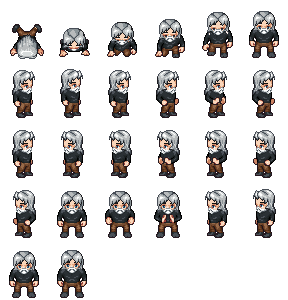
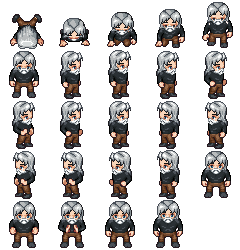
feat and fix: Ajuste de sprites do player e npc. Adição das animações e balão de fala ao NPC, além da utilização do botão e para interagir com o npc

diff --git a/src/scenes/jogo.js b/src/scenes/jogo.js
@@ -2,11 +2,11 @@ import MenuPausa from './MenuPausa.js'
 import SoundManager from './SoundManager.js'
 
 export default class Jogo extends Phaser.Scene {
-    constructor () {
+    constructor() {
         super('Jogo')
     }
 
-    preload () {
+    preload() {
         this.load.tilemapTiledJSON('mapa', 'public/assets/mapa/mapa.json')
 
         // Carregando os sprites dos personagens
@@ -14,7 +14,7 @@ export default class Jogo extends Phaser.Scene {
         this.load.spritesheet('enemy1', 'public/assets/personagens/enemy1.png', { frameWidth: 48, frameHeight: 60 })
         this.load.spritesheet('enemy2', 'public/assets/personagens/enemy2.png', { frameWidth: 48, frameHeight: 60 })
         this.load.spritesheet('enemy3', 'public/assets/personagens/enemy3.png', { frameWidth: 48, frameHeight: 60 })
-        this.load.spritesheet('npc', 'public/assets/personagens/npc.png', { frameWidth: 48, frameHeight: 60 })
+        this.load.spritesheet('npc', 'public/assets/personagens/npc.png', { frameWidth: 48, frameHeight: 50 })
 
         // Carregando os sprites do mapa
         this.load.image('casinhaDeEstoque', 'public/assets/mapa/casinhaDeEstoque.png')
@@ -52,6 +52,7 @@ export default class Jogo extends Phaser.Scene {
         this.load.spritesheet('cozinhaModificada', 'public/assets/mapa/cozinhaModificada.png', { frameWidth: 32, frameHeight: 32 })
         this.load.spritesheet('jardimFundos', 'public/assets/mapa/jardimFundos.png', { frameWidth: 32, frameHeight: 32 })
         this.load.spritesheet('pilares', 'public/assets/mapa/pilares.png', { frameWidth: 64, frameHeight: 64 })
+        this.load.image('iconeConversa', 'public/assets/botoes/iconeConversa.png')
 
         const sonsParaCarregar = [
             { key: 'passo', path: 'public/assets/sons/passo.mp3' },
@@ -69,8 +70,10 @@ export default class Jogo extends Phaser.Scene {
 
     }
 
-    create () {
+    create() {
         const mapa = this.make.tilemap({ key: 'mapa' })
+
+        // Mapeamento de teclas do teclado para as interações
         this.cursors = this.input.keyboard.createCursorKeys()
 
         this.shift = this.input.keyboard.addKey(Phaser.Input.Keyboard.KeyCodes.SHIFT) //botão shift
@@ -82,6 +85,7 @@ export default class Jogo extends Phaser.Scene {
             right: Phaser.Input.Keyboard.KeyCodes.D
         })
         this.teclaEsc = this.input.keyboard.addKey(Phaser.Input.Keyboard.KeyCodes.ESC)
+        this.teclaE = this.input.keyboard.addKey(Phaser.Input.Keyboard.KeyCodes.E)
 
         const tilesetChao = mapa.addTilesetImage('mansao', 'mansao')
         const tilesetObjetos = mapa.addTilesetImage('objetos', 'objetos')
@@ -275,9 +279,9 @@ export default class Jogo extends Phaser.Scene {
         this.layerColisao.setCollisionByExclusion([-1])
 
         // Configuração do player
-        this.player = this.physics.add.sprite(784.5, 3233.6, 'player')
+        this.player = this.physics.add.sprite(784.5, 3246.1, 'player')
         window.player = this.player //Comando para ver a localização do player no jogo, usando o comando console.log(player.x, player.y)
-        this.direcao = 'baixo'
+        this.direcao = 'esquerda'
         this.physics.add.collider(this.player, this.layerColisao)
         this.physics.add.collider(this.player, this.colunasColisao)
         this.player.setDepth(2)
@@ -367,7 +371,76 @@ export default class Jogo extends Phaser.Scene {
         })
 
         // Configuração NPC
-        this.npc = this.physics.add.sprite(762.8, 3323.6, 'npc')
+
+        this.npc = this.physics.add.sprite(675, 3244.5, 'npc')
+
+        this.physics.add.collider(this.npc, this.player)
+
+        this.npc.setPushable(false)
+        this.npc.setImmovable(true)
+
+        // Levantando
+        this.anims.create({
+            key: 'npc-levantando',
+            frames: this.anims.generateFrameNumbers('npc', {
+                start: 0,
+                end: 5
+            }),
+            frameRate: 3,
+            repeat: 0
+        })
+
+        // Virando para direita (idle)
+        this.anims.create({
+            key: 'npc-virandoDireita',
+            frames: this.anims.generateFrameNumbers('npc', {
+                start: 6,
+                end: 8
+            }),
+            frameRate: 2,
+            repeat: -1
+        })
+
+        // Agradecendo
+        this.anims.create({
+            key: 'npc-agradecendo',
+            frames: this.anims.generateFrameNumbers('npc', {
+                start: 9,
+                end: 12
+            }),
+            frameRate: 2,
+            repeat: 0
+        })
+
+        this.npc.play('npc-levantando')
+        this.npc.on('animationcomplete-npc-levantando', () => {
+            this.npc.play('npc-virandoDireita')
+        })
+
+        // Balão de fala do NPC
+        this.iconeConversa = this.add.image(
+            this.npc.x,
+            this.npc.y - 40,
+            'iconeConversa'
+        )
+
+        this.iconeConversa.setScale(0.5)
+        this.iconeConversa.setVisible(false)
+
+        this.physics.add.overlap(
+            this.player,
+            this.npc,
+            () => {
+                this.iconeConversa.setVisible(true)
+            },
+            null,
+            this
+        )
+
+        // Interação com o NPC
+        this.npc.on('animationcomplete-npc-agradecendo', () => {
+            this.npc.play('npc-virandoDireita')
+        })
 
         // Configurações dos Inimigos
         //this.enemy1 = this.physics.add.sprite(762.8, 3323.6, 'enemy1')
@@ -433,7 +506,7 @@ export default class Jogo extends Phaser.Scene {
         })
     }
 
-    update () {
+    update() {
 
         // debug colisão
         //this.layerColisao.renderDebug(this.add.graphics(), {
@@ -477,7 +550,7 @@ export default class Jogo extends Phaser.Scene {
 
         this.player.setVelocity(vx, vy)
 
-
+        
         if (vx !== 0 || vy !== 0) {
             const prefixo = correndo ? 'correr' : 'andar'
             this.player.anims.play(prefixo + '-' + this.direcao, true)
@@ -486,5 +559,37 @@ export default class Jogo extends Phaser.Scene {
             this.player.anims.play('idle-' + this.direcao, true)
             this.soundManager.pararPassos()
         }
+
+        // Balão de conversa do NPC:
+        this.iconeConversa.setPosition(
+            this.npc.x,
+            this.npc.y - 40
+        )
+
+        const distancia = Phaser.Math.Distance.Between(
+            this.player.x,
+            this.player.y,
+            this.npc.x,
+            this.npc.y
+        )
+
+        const pertoDoNpc = distancia < 50
+        const jogadorADireitaDoNpc = this.player.x > this.npc.x
+
+        this.iconeConversa.setVisible(
+            pertoDoNpc &&
+            jogadorADireitaDoNpc
+        )
+
+        const podeConversar = this.iconeConversa.visible
+
+        if (
+            podeConversar &&
+            Phaser.Input.Keyboard.JustDown(this.teclaE) &&
+            this.npc.anims.currentAnim.key !== 'npc-agradecendo'
+        ) {
+            this.npc.play('npc-agradecendo')
+        }
+
     }
 }